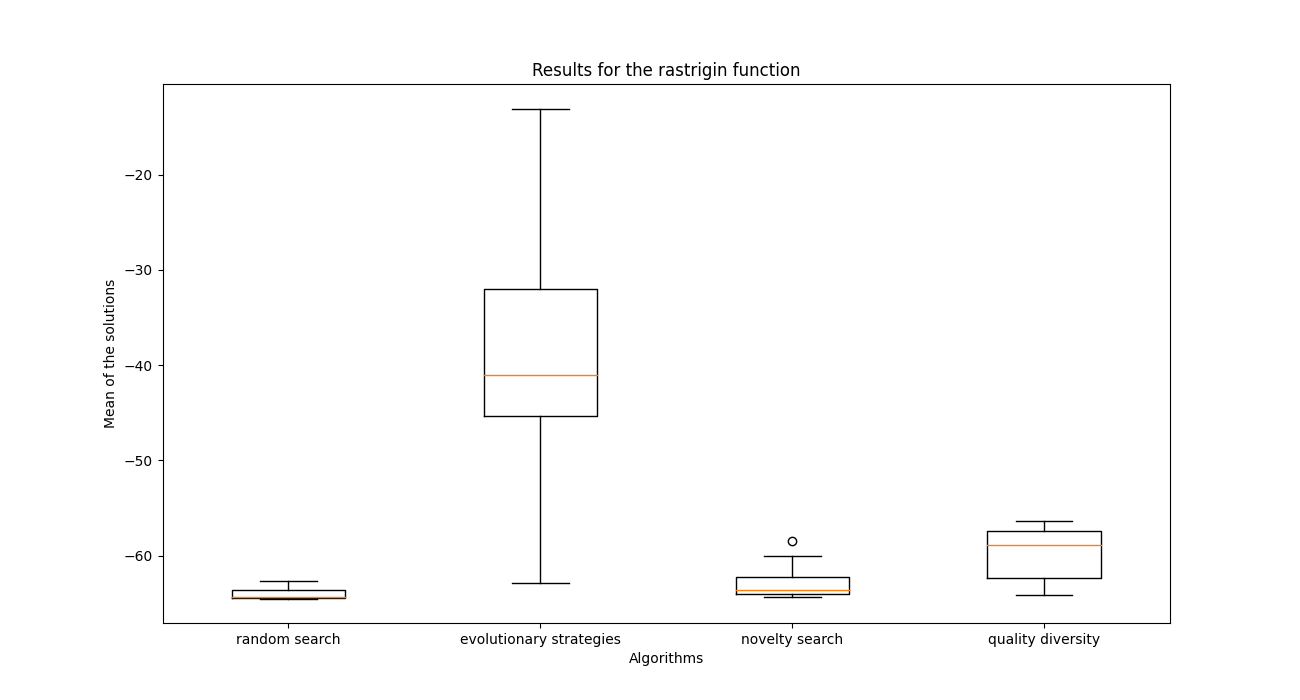
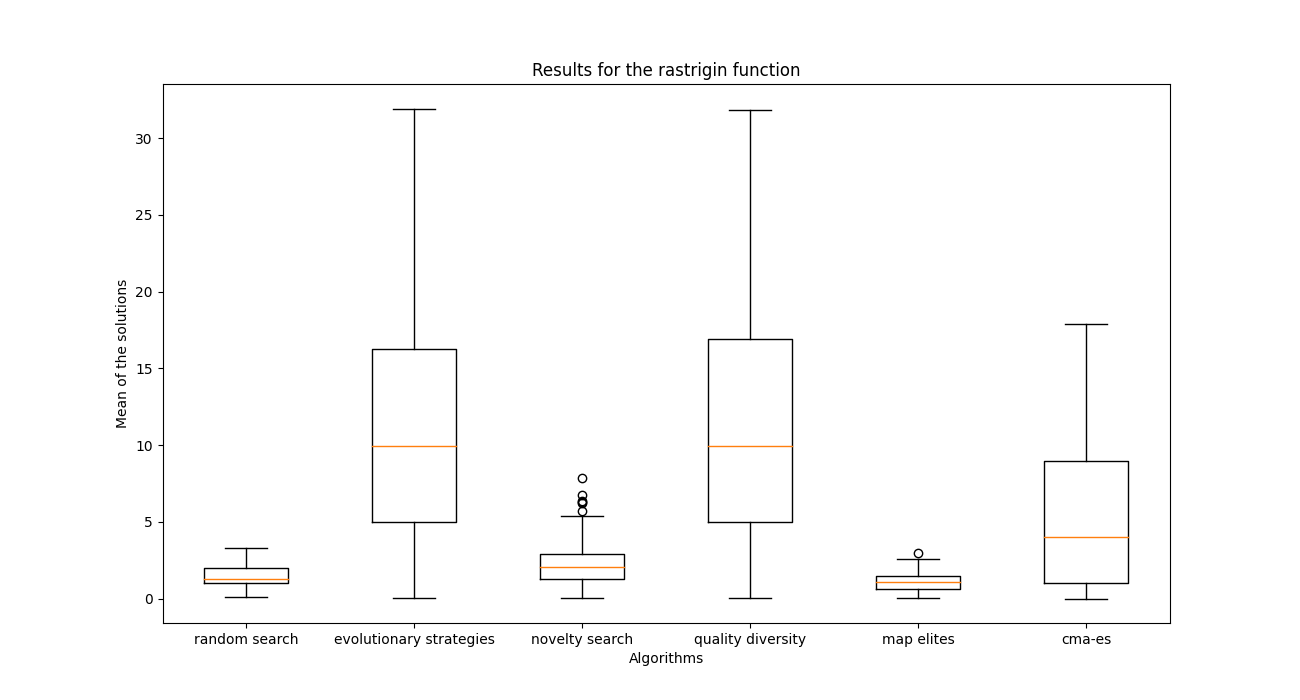
improving Map Elites algo

diff --git a/plot_results.py b/plot_results.py
@@ -1,0 +1,54 @@
+import matplotlib.pyplot as plt
+import pandas as pd
+
+df = pd.read_csv('data/results.csv', index_col=0)
+
+rosen = df[[c for c in df.columns if 'rosen' in c]]
+rosen.columns = [x.split('_')[-1] for x in rosen.columns]
+
+rastrigin = df[[c for c in df.columns if 'rastrigin' in c]]
+rastrigin.columns = [x.split('_')[-1] for x in rastrigin.columns]
+
+ackley = df[[c for c in df.columns if 'ackley' in c]]
+ackley.columns = [x.split('_')[-1] for x in ackley.columns]
+
+
+data = {
+    'rosen': rosen,
+    'rastrigin': rastrigin,
+    'ackley': ackley
+}
+
+for f, d in data.items():
+    print(f'Mean Results for the {f} function')
+    print(d.mean().to_string(), end='\n\n')
+
+label_map = {
+    'rs': 'random search',
+    'nses': 'novelty search',
+    'es': 'evolutionary strategies',
+    'me': 'map elites',
+    'qdes': 'quality diversity',
+    'cmaes': 'cma-es'
+}
+
+for f, d in data.items():
+    bin_d = (d < 0.05).cumsum()
+    fig = plt.figure(figsize=(13, 7))
+    labels = [label_map[x] for x in bin_d.columns]
+    plt.plot(bin_d, label=labels)
+    plt.xlabel('# Iterations')
+    plt.ylabel('cumulative # of solutions with distance < 5% of the target')
+    plt.legend(fontsize='large')
+    plt.title(f'Results for the {f} function')
+    plt.savefig(f'imgs/{f}_line_plot', pad_inches=0)
+
+
+for f, d in data.items():
+    fig = plt.figure(figsize=(13, 7))
+    labels = [label_map[x] for x in bin_d.columns]
+    _ = plt.boxplot(d, labels=labels)
+    plt.xlabel('Algorithms')
+    plt.ylabel('Mean of the solutions')
+    plt.title(f'Results for the {f} function')
+    plt.savefig(f'imgs/{f}_box_plot', pad_inches=0)

diff --git a/optimisation/algorithms/map_elites.py b/optimisation/algorithms/map_elites.py
@@ -18,6 +18,7 @@ class ME(Algorithm):
     def init_grid(self):
         self.grid_size = int(self.pop_size**0.5)
         self.niche_range = self.f.x_range / self.grid_size
+        self.empty_niche = np.array([np.nan, np.nan])
 
         for i in range(self.grid_size):
             for j in range(self.grid_size):
@@ -27,20 +28,27 @@ class ME(Algorithm):
                 e_j = s_j + self.niche_range
 
                 centers = np.array([[s_j, s_i], [e_j, e_i]])
-                niche = np.mean(centers, axis=0)
-
+                niche = np.mean(centers, axis=0) if random.random() < 0.20 else self.empty_niche
                 self.population.append(niche)
+
 
     def one_step(self):
         random_elite = random.choice(self.population)
+        while random_elite is self.empty_niche:
+            random_elite = random.choice(self.population)
+
         noise = np.random.randn(self.f.x_shape)
         mutated_elite = self.f.clip(random_elite + self.sigma * noise)
         self.x = mutated_elite
 
         cell = self.get_cell(mutated_elite)
 
-        if self.f(mutated_elite) > self.f(self.population[cell]):
+        if self.population[cell] is self.empty_niche:
             self.population[cell] = mutated_elite
+
+        elif self.opposite_f(mutated_elite) > self.opposite_f(self.population[cell]):
+            self.population[cell] = mutated_elite
+
 
     def get_cell(self, x):
         cell_x = (x[0] * 0.999 - self.f.x_min) // self.niche_range

diff --git a/vis.py b/vis.py
@@ -13,29 +13,23 @@ X_MAX = 5
 
 function_name, algorithm_name = input_parse(sys.argv)
 
-for algorithm_name in ['rs', 'es', 'nses', 'qdes', 'me', 'cmaes']:
-    f, algo = get_function(function_name), get_algorithm(algorithm_name)
+f = get_function(function_name)
 
-    f = Function(X_MIN, X_MAX, X_SHAPE, f)
-    f.make_data()
-    f.find_min()
+f = Function(X_MIN, X_MAX, X_SHAPE, f)
+f.make_data()
+f.find_min()
 
-    algo = algo(f)
+plotter = Plotter(f.x, f.y)
 
-    plotter = Plotter(f.x, f.y)
+fig_surf = plotter.surface()
+fig_surf.savefig(f'imgs/{function_name}_3d_plot.png')
+fig_cont, sc, sc2 = plotter.countour()
 
-    # fig_surf = plotter.surface()
-    fig_cont, sc, sc2 = plotter.countour()
+algo = get_algorithm(algorithm_name)
+algo = algo(f)
 
-    def update(frame_num, alg):
-        alg.one_step()
-        sc.set_offsets(alg.x)
-        sc2.set_offsets(alg.population)
-        return sc2, sc
-
-    pos = {'x': f.random_guess(), 'population': []}
-    anim = plotter.animation(fig_cont, update, algo)
-    plt.show()
+anim = plotter.countour_animation(fig_cont, plotter.contour_update, algo)
+plt.show()
 
 # Save the animation
-# anim.save(f'gif/{function}_{algorithm}.gif', writer='imagemagick', fps=5)
+# anim.save(f'gif/{function_name}_{algorithm_name}.gif', writer='imagemagick', fps=1)

diff --git a/optimisation/visualisation/plotter.py b/optimisation/visualisation/plotter.py
@@ -23,13 +23,19 @@ class Plotter:
         fig, ax = plt.subplots(1, 1, figsize=(13, 7))
         cp = ax.contourf(self.x[..., 0], self.x[..., 1], self.y,
                          locator=ticker.LogLocator(subs=range(1, 10)), cmap=cm.gist_heat_r)
-        sc2 = ax.scatter([], [], s=2, c='b')
-        sc = ax.scatter([], [], s=4, c='w')
+        self.sc2 = ax.scatter([], [], s=2, c='b')
+        self.sc = ax.scatter([], [], s=4, c='w')
         fig.colorbar(cp)
 
-        return fig, sc, sc2
+        return fig, self.sc, self.sc2
 
-    def animation(self, fig, update, *args):
+    def countour_animation(self, fig, update, *args):
         line_ani = animation.FuncAnimation(
             fig, update, 100, fargs=args, interval=50, blit=True)
         return line_ani
+
+    def contour_update(self, num_iteration, alg):
+        alg.one_step()
+        self.sc.set_offsets(alg.x)
+        self.sc2.set_offsets(alg.population)
+        return self.sc2, self.sc

diff --git a/benchmark.py b/benchmark.py
@@ -23,22 +23,13 @@ for f_name, f in functions.items():
     for algo_name, algo in algorithms.items():
         print(f_name + '_' + algo_name)
 
-        best_sols = np.zeros((NUM_EXP,))
+        scores = np.zeros((NUM_EXP,))
 
         for i in range(NUM_EXP):
             algorithm = algo(f)
-            best = algorithm.eval()
-            for _ in range(NUM_ITER):
-                algorithm.one_step()
+            score = algorithm.search_loop(NUM_ITER)
+            scores[i] = score
 
-                if algorithm.eval() < best:
-                    best = algorithm.eval()
-
-                if abs(best - f.y_sol) < 0.00001:
-                    break
-
-            best_sols[i] = best
-
-        results[f_name + '_' + algo_name] = best_sols
+        results[f_name + '_' + algo_name] = scores
 
 results.to_csv('data/results.csv')

diff --git a/optimisation/algorithms/alg.py b/optimisation/algorithms/alg.py
@@ -2,9 +2,26 @@ class Algorithm:
     def __init__(self, function):
         self.f = function
         self.x = self.f.random_guess()
+        self.population = []
 
     def one_step(self):
-        pass
+        raise NotImplementedError("Subclasses should implement this!")
+
+    def search_loop(self, num_iterations, tol=1e-5):
+        self.score = self.eval()
+
+        for _ in range(num_iterations):
+            self.one_step()
+            self.score = min(self.score, self.eval())
+
+            if abs(self.score - self.f.y_sol) < tol:
+                break
+
+        # print(f"estimate: {self.x}, fitness: {self.eval()}")
+        return self.score
 
     def eval(self):
         return self.f(self.x)
+
+    def opposite_f(self, x):
+        return -self.f(x)

diff --git a/optimisation/algorithms/cma_es.py b/optimisation/algorithms/cma_es.py
@@ -5,7 +5,7 @@ from .alg import Algorithm
 
 class CMAES(Algorithm):
     def __init__(self, function, pop_size=50, sigma=0.3):
-        self.f = function
+        super().__init__(function)
         self.iteration = 0
 
         self.pop_size = pop_size
@@ -57,7 +57,7 @@ class CMAES(Algorithm):
             np.zeros(self.f.x_shape), self.C, size=self.pop_size)
         self.population = self.f.clip(self.x + self.sigma * y)
 
-        fit = self.f(self.population)
+        fit = self.opposite_f(self.population)
 
         order = np.argsort(fit)[-self.mu:][::-1]
         samples = self.population[order, :]

diff --git a/optimisation/algorithms/evolutionary_strategies.py b/optimisation/algorithms/evolutionary_strategies.py
@@ -14,7 +14,7 @@ class ES(Algorithm):
     def one_step(self):
         noise = np.random.randn(self.pop_size, self.f.x_shape)
         self.population = self.f.clip(self.x + self.sigma * noise)
-        fit = self.f(self.population)
+        fit = self.opposite_f(self.population)
 
         rewards = (fit - np.mean(fit)) / np.std(fit)
         offset = self.alpha / (self.pop_size * self.sigma) * \

diff --git a/optimisation/algorithms/quality_diversity.py b/optimisation/algorithms/quality_diversity.py
@@ -19,7 +19,7 @@ class QDES(Algorithm):
         noise = np.random.randn(self.pop_size, self.f.x_shape)
         curr_pop = self.f.clip(self.x + self.sigma * noise)
 
-        quality_fit = self.f(curr_pop)
+        quality_fit = self.opposite_f(curr_pop)
 
         neighbors = NearestNeighbors(
             n_neighbors=self.K,

diff --git a/optimisation/functions/func.py b/optimisation/functions/func.py
@@ -40,4 +40,4 @@ class Function:
         return np.clip(x, self.x_min, self.x_max)
 
     def __call__(self, x):
-        return -self.f(x)
+        return self.f(x)

diff --git a/optimisation/utils/__init__.py b/optimisation/utils/__init__.py
@@ -1,2 +1,2 @@
-from .utils import *
-from .data import *
+from .utils import input_parse, get_function, get_algorithm
+from .data import normalize_data

diff --git a/optimisation/functions/func_defs.py b/optimisation/functions/func_defs.py
@@ -1,6 +1,5 @@
 import numpy as np
 
-
 def rosen(x):
     x0 = x[..., :-1]
     x1 = x[..., 1:]
